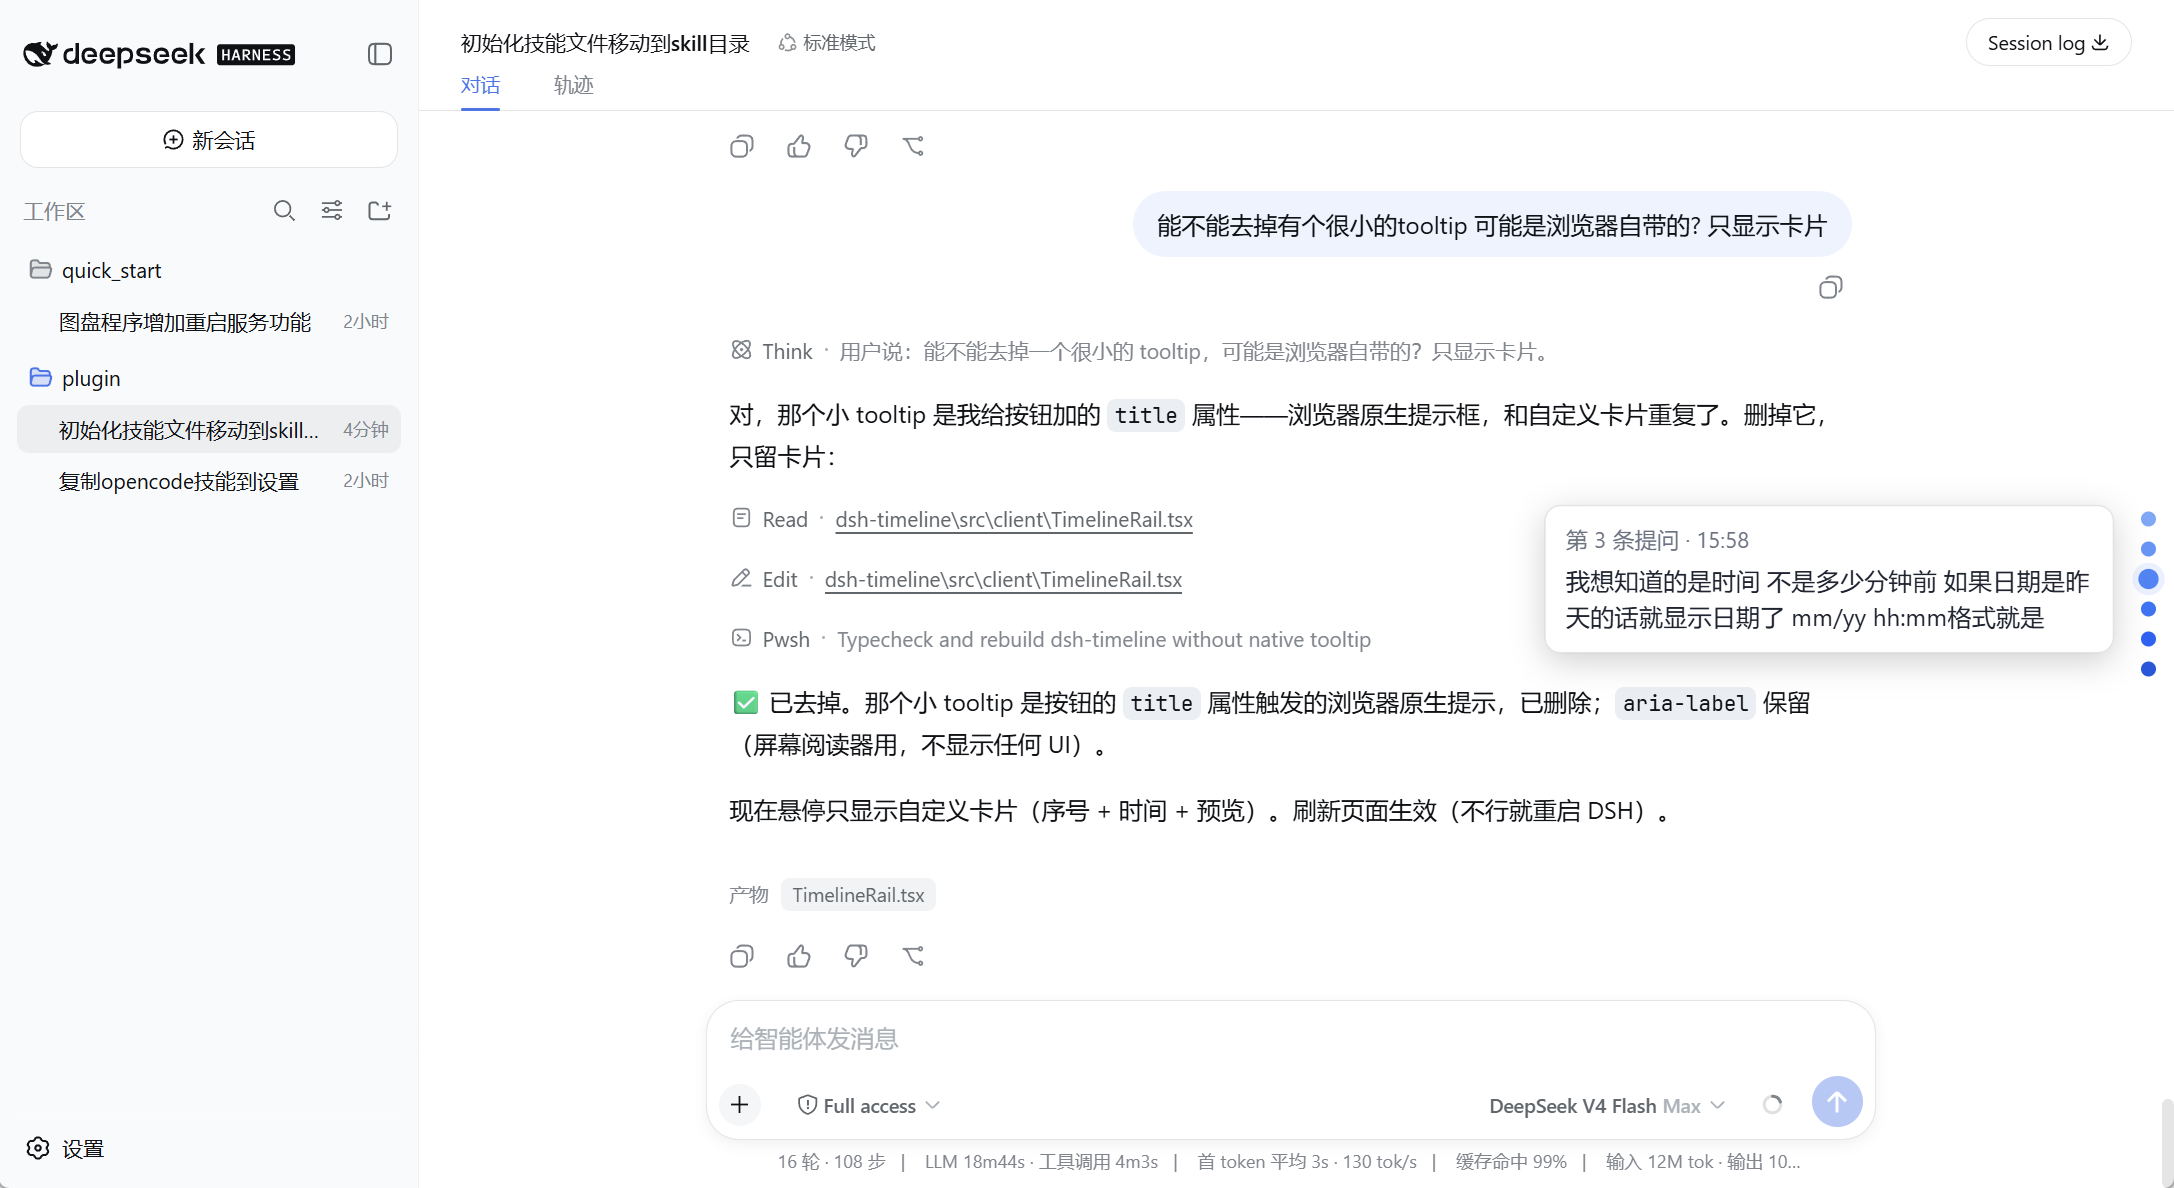
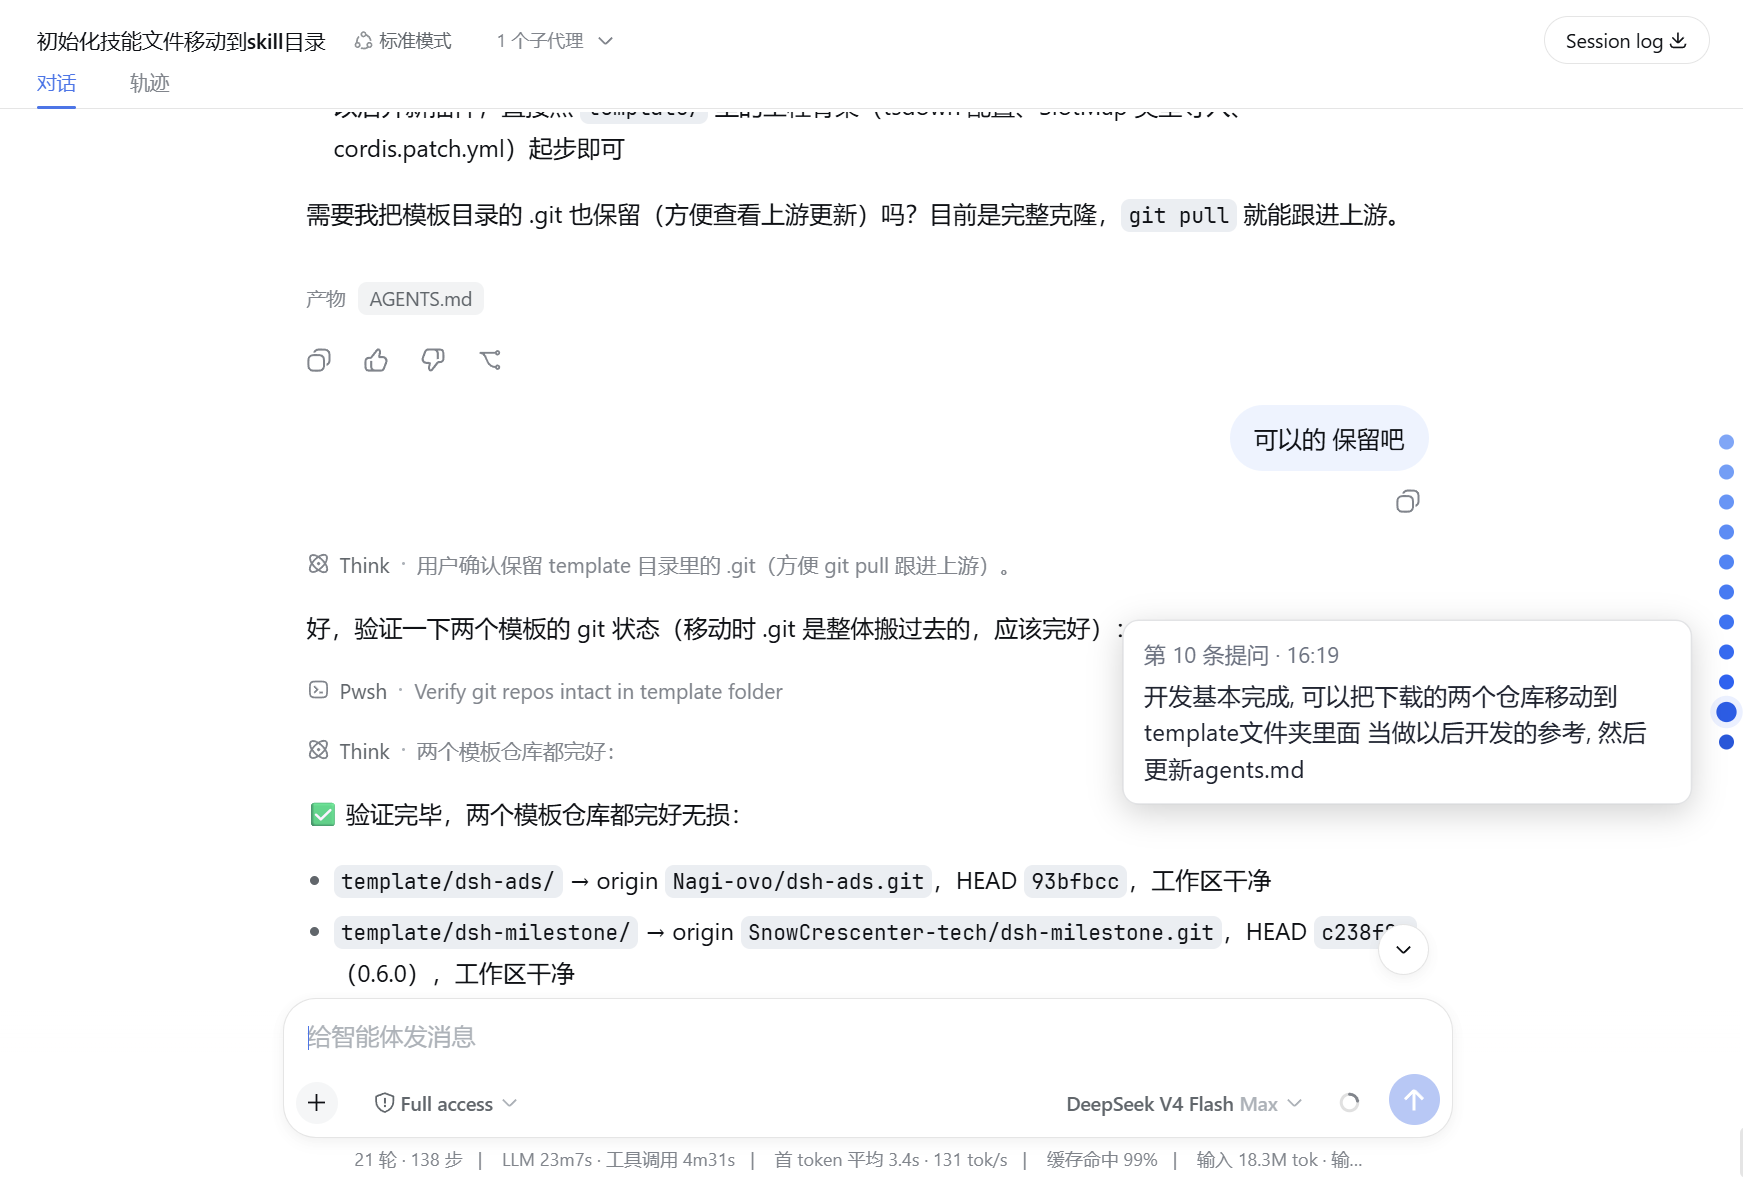
feat: auto-paginate full conversation history so every question gets a dot

diff --git a/lib/client.js b/lib/client.js
@@ -124,11 +124,15 @@ window.__ModuleLoader__.load({
 			};
 		}
 		/**
-		* @param props - the session-scoped standard kit from the framework.
+		* @param props - the session-scoped standard kit from the framework, plus the
+		*   injected `loadOlder` action (no-op default for renders outside the slot
+		*   machinery).
 		*/
-		function TimelineRail({ useSession }) {
+		function TimelineRail({ useSession, loadOlder = async () => {} }) {
 			const order = useSession((s) => s.chat.order);
 			const nodes = useSession((s) => s.chat.nodes);
+			const hasMore = useSession((s) => s.hasMore);
+			const loadingOlder = useSession((s) => s.loadingOlder);
 			const [hoveredKey, setHoveredKey] = (0, react.useState)(null);
 			const marks = (0, react.useMemo)(() => {
 				const result = [];
@@ -145,6 +149,14 @@ window.__ModuleLoader__.load({
 				}
 				return result;
 			}, [order, nodes]);
+			(0, react.useEffect)(() => {
+				if (hasMore && !loadingOlder) loadOlder();
+			}, [
+				hasMore,
+				loadingOlder,
+				loadOlder,
+				order
+			]);
 			if (marks.length === 0) return null;
 			/** Jump to the chat row with the given node key. */
 			const jump = (key) => {
@@ -204,9 +216,29 @@ window.__ModuleLoader__.load({
 			});
 		}
 		//#endregion
+		//#region src/client/railInject.ts
+		/**
+		* Wrap a session-bound `loadOlder` call into a safe action closure.
+		*
+		* - Missing binding: resolves (never throws on an unlisted/unscoped session).
+		* - Bound session: delegates to `session.loadOlder()`; a rejection propagates
+		*   unchanged so callers can surface the transport error.
+		*
+		* @param sessions - the injected sessions service (`ctx.sessions`).
+		* @param sessionId - the session the rail is scoped to.
+		* @returns an action that loads the previous message page for that session.
+		*/
+		function createLoadOlder(sessions, sessionId) {
+			return async () => {
+				const binding = sessions.binding(sessionId);
+				if (binding === void 0) return;
+				await binding.session.loadOlder();
+			};
+		}
+		//#endregion
 		//#region src/client/index.ts
 		/** Required services (cordis fiber inject). */
-		const inject = ["slots"];
+		const inject = ["slots", "sessions"];
 		/**
 		* Register the overlay and rail once their slot declarations are on the
 		* ledger. The overlay registers directly against the shipped shell.overlay
@@ -223,7 +255,10 @@ window.__ModuleLoader__.load({
 					scope: "session"
 				} }
 			}, TimelineOverlay));
-			ctx.slots.inject("timeline.rail", () => ctx.slots.register({ name: "timeline.rail" }, TimelineRail));
+			ctx.slots.inject("timeline.rail", () => ctx.slots.register({
+				name: "timeline.rail",
+				inject: (sessionId) => ({ loadOlder: createLoadOlder(ctx.sessions, sessionId) })
+			}, TimelineRail));
 		}
 		//#endregion
 		exports.apply = apply;

diff --git a/src/client/TimelineRail.tsx b/src/client/TimelineRail.tsx
@@ -10,13 +10,16 @@
  * Jump: the harness renders every chat row with a `data-chat-anchor-key`
  * attribute whose value is the node key; `scrollIntoView` lands on it.
  */
-import { useMemo, useState } from 'react'
+import { useEffect, useMemo, useState } from 'react'
 import type { CSSProperties, MouseEvent } from 'react'
 import type { PropsRuntime } from '@deepseek-ai/dsh-client-ui-slots'
 import { dotColor, extractPreview, PREVIEW_LENGTH } from './rail-logic.ts'
 
-/** The rail's session-scoped standard kit (useSession is framework-injected). */
-export type TimelineRailProps = PropsRuntime<'timeline.rail'>
+/** The rail's session-scoped standard kit plus the injected loadOlder action. */
+export type TimelineRailProps = PropsRuntime<'timeline.rail'> & {
+  /** Pull one earlier history page (injected, session-bound; harness pages of 50 events). */
+  loadOlder?: () => Promise<void>
+}
 
 /** One user-question dot. */
 interface TimelineMark {
@@ -105,11 +108,17 @@ function tooltipStyle(open: boolean): CSSProperties {
 }
 
 /**
- * @param props - the session-scoped standard kit from the framework.
+ * @param props - the session-scoped standard kit from the framework, plus the
+ *   injected `loadOlder` action (no-op default for renders outside the slot
+ *   machinery).
  */
-export function TimelineRail({ useSession }: TimelineRailProps) {
+export function TimelineRail({ useSession, loadOlder = async () => {} }: TimelineRailProps) {
   const order = useSession(s => s.chat.order)
   const nodes = useSession(s => s.chat.nodes)
+  // F3: the conversation paging window. `hasMore` says older history still
+  // sits outside the loaded window; `loadingOlder` gates the page fetch.
+  const hasMore = useSession(s => s.hasMore)
+  const loadingOlder = useSession(s => s.loadingOlder)
   const [hoveredKey, setHoveredKey] = useState<string | null>(null)
 
   // Ordered user-question dots. node.kind === 'user' is the append-origin
@@ -129,6 +138,16 @@ export function TimelineRail({ useSession }: TimelineRailProps) {
     }
     return result
   }, [order, nodes])
+
+  // Auto-paginate: keep pulling older pages until the whole conversation is
+  // in the window (`hasMore` flips to false). The window only loads the most
+  // recent PAGE_MESSAGES (50) events initially, so without this the rail would
+  // only cover the tail of a long session. `order` in the deps re-arms the
+  // effect after each prepend (and retries if the first call raced the window
+  // opening, when loadOlder is internally a no-op).
+  useEffect(() => {
+    if (hasMore && !loadingOlder) void loadOlder()
+  }, [hasMore, loadingOlder, loadOlder, order])
 
   if (marks.length === 0) return null
 

diff --git a/src/client/railInject.ts b/src/client/railInject.ts
@@ -1,0 +1,33 @@
+/**
+ * Binding-safe `loadOlder` action for the timeline rail.
+ *
+ * Decoupled from any harness runtime value so tsdown can bundle `lib/client.js`
+ * without importing the sessions service. The structural `SessionsLike` matches
+ * the runtime `ISessions` face: `ctx.sessions.binding(id)` returns a
+ * `SessionBinding | undefined`, and the binding's `session.loadOlder()` pulls
+ * one earlier history page (harness `PAGE_MESSAGES = 50` events per page).
+ */
+
+/** Structural sessions-service face — mirrors the harness `ISessions` contract for `binding`. */
+export interface SessionsLike {
+  binding(id: string): { session: { loadOlder(): Promise<unknown> } } | undefined
+}
+
+/**
+ * Wrap a session-bound `loadOlder` call into a safe action closure.
+ *
+ * - Missing binding: resolves (never throws on an unlisted/unscoped session).
+ * - Bound session: delegates to `session.loadOlder()`; a rejection propagates
+ *   unchanged so callers can surface the transport error.
+ *
+ * @param sessions - the injected sessions service (`ctx.sessions`).
+ * @param sessionId - the session the rail is scoped to.
+ * @returns an action that loads the previous message page for that session.
+ */
+export function createLoadOlder(sessions: SessionsLike, sessionId: string): () => Promise<void> {
+  return async () => {
+    const binding = sessions.binding(sessionId)
+    if (binding === undefined) return
+    await binding.session.loadOlder()
+  }
+}

diff --git a/src/client/index.ts b/src/client/index.ts
@@ -15,6 +15,7 @@ import type {} from '@deepseek-ai/dsh-client-ui-layout/client'
 import type {} from '@deepseek-ai/dsh-client-ui-conversation/client'
 import { TimelineOverlay } from './TimelineOverlay.tsx'
 import { TimelineRail } from './TimelineRail.tsx'
+import { createLoadOlder } from './railInject.ts'
 
 declare module '@deepseek-ai/dsh-client-ui-slots' {
   interface SlotMap {
@@ -28,7 +29,7 @@ declare module '@deepseek-ai/dsh-client-ui-slots' {
 }
 
 /** Required services (cordis fiber inject). */
-export const inject = ['slots']
+export const inject = ['slots', 'sessions']
 
 /**
  * Register the overlay and rail once their slot declarations are on the
@@ -47,7 +48,15 @@ export function apply(ctx: ClientContext): void {
     TimelineOverlay,
   ))
   ctx.slots.inject('timeline.rail', () => ctx.slots.register(
-    { name: 'timeline.rail' },
+    {
+      name: 'timeline.rail',
+      // Session-scoped inject face: the rail receives a binding-safe
+      // `loadOlder` action for its own session, used to auto-paginate the
+      // history window so dots cover the whole conversation.
+      inject: (sessionId) => ({
+        loadOlder: createLoadOlder(ctx.sessions, sessionId),
+      }),
+    },
     TimelineRail,
   ))
 }

diff --git a/README.md b/README.md
@@ -13,6 +13,7 @@ No configuration, no host dependencies, no database — everything comes from th
 ## Features
 
 - 🎯 **One dot per question** — every user message gets a dot in a slim rail on the right edge of the frame
+- 📜 **Full-history rail** — long conversations auto-paginate (`loadOlder`) until *every* question in the session has a dot, not just the most recent page
 - ⚡ **Click to jump** — smooth-scrolls the conversation to the exact message
 - 👁 **Hover to preview** — shows the message number, the time it was asked, and the first 80 characters of what you said
 - 🕐 **Absolute time** — today's messages show `HH:MM`; anything earlier shows `MM/DD HH:MM`

diff --git a/README.zh-CN.md b/README.zh-CN.md
@@ -13,6 +13,7 @@
 ## 功能
 
 - 🎯 **每条提问一个圆点** —— 所有用户提问在右侧细条上各有一个圆点
+- 📜 **全历史覆盖** —— 长会话自动分页加载（`loadOlder`），直到整条对话的每个提问都有圆点，不只显示最近一页
 - ⚡ **点击跳转** —— 平滑滚动到对应消息，长对话不用再手动翻几百行
 - 👁 **悬停预览** —— 显示提问序号、提问时间、前 80 字内容
 - 🕐 **绝对时间** —— 今天的提问显示 `HH:MM`，昨天及更早显示 `MM/DD HH:MM`
